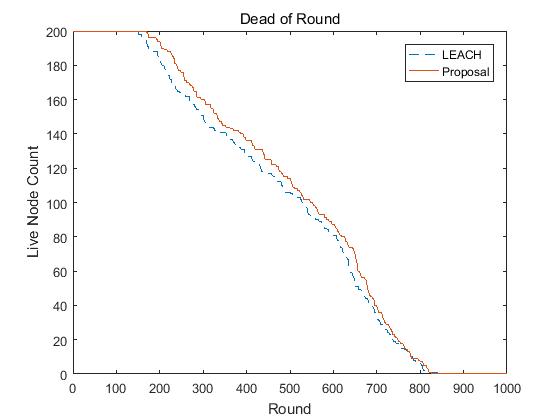
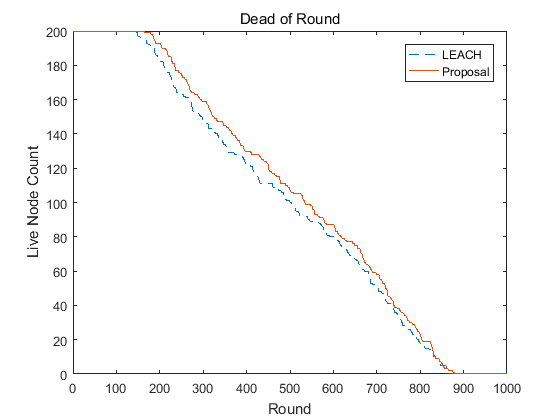
fixed normal node energy

diff --git a/leach.m b/leach.m
@@ -21,6 +21,7 @@ n = 200;
 p=0.05;
 packetLength =6400;
 ctrPacketLength = 200;
+sensingDataLength = 300;
 %Energy Model (all values in Joules)
 %Initial Energy 
 Eo = 0.5;
@@ -298,9 +299,9 @@ for leach_round=1:1:2
             else
                 nodeData = sprintf('%d:%d,', i, (sensing_data(r+1, i)*10));
             end
-            nodeData
+
             nodePacketLength = length(dec2bin(nodeData, 16) - '0')*16;
-             
+            
              %Energy dissipated by associated Cluster Head
              min_dis;
              if (min_dis > do)
@@ -314,7 +315,7 @@ for leach_round=1:1:2
 
              %Energy dissipated 
              if(min_dis > 0)
-                S(C(min_dis_cluster).id).E = S(C(min_dis_cluster).id).E - ((ERX + EDA)*1000 ); % sensing energy
+                S(C(min_dis_cluster).id).E = S(C(min_dis_cluster).id).E - ((ERX + EDA)*sensingDataLength ); % sensing energy
                 S(C(min_dis_cluster).id).E = S(C(min_dis_cluster).id).E - ERX *ctrPacketLength ; %
                 if (min_dis > do)%?
                     S(C(min_dis_cluster).id).E = S(C(min_dis_cluster).id).E - ( ETX*(ctrPacketLength) + Emp * ctrPacketLength*( min_dis * min_dis * min_dis * min_dis));
